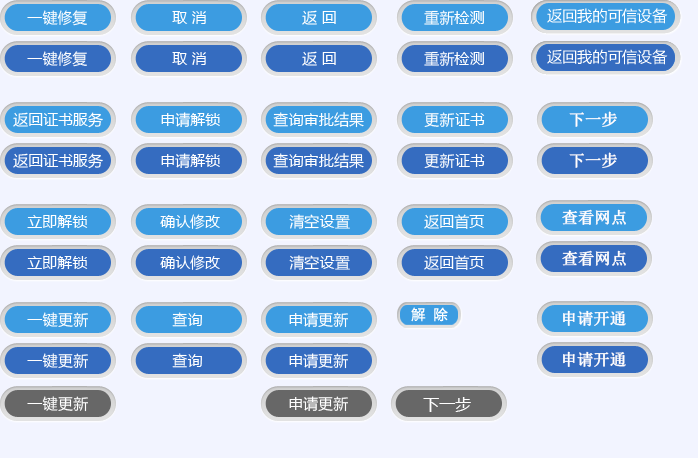
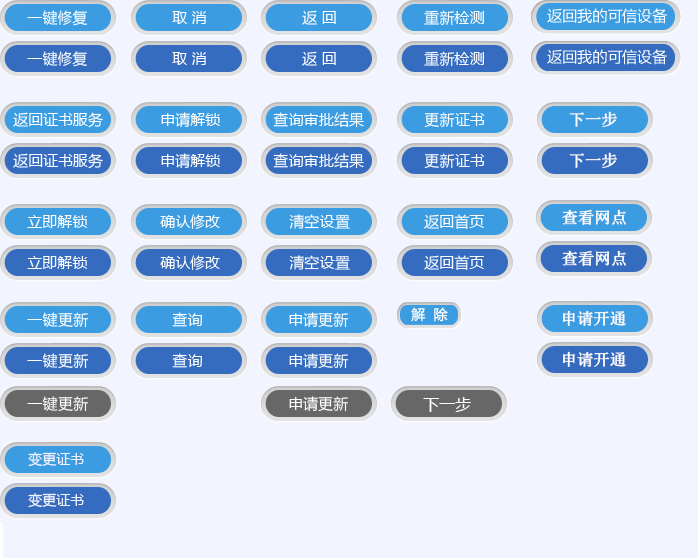
客户端变更证书

diff --git a/src/main/webapp/static/iLetter/css/main.css b/src/main/webapp/static/iLetter/css/main.css
@@ -1137,6 +1137,23 @@ background:url(../images/bgfw_step.png) 0 -185px no-repeat;
 margin:20px 50px 0px 25px;
 overflow:hidden;
 }
+
+.zsfw_bgfw_step4{width:270px;
+height:85px;
+padding:0;
+background:url(../images/gx_step.png) 0 -362px no-repeat;
+margin:20px 50px 0px 25px;
+overflow:hidden;
+}
+
+.zsfw_bgfw_step5{width:270px;
+height:85px;
+padding:0;
+background:url(../images/bgfw_step.png) 0 -455px no-repeat;
+margin:20px 50px 0px 25px;
+overflow:hidden;
+}
+
 .zsfw_gxgx_step1{width:379px;
 height:85px;
 padding:0;
@@ -1587,6 +1604,20 @@ height:37px;
 background:url(../images/btn_icon.png) -397px -143px no-repeat;
 overflow:hidden;
 }
+
+.btn_bgzs a{ display:block;
+width:116px;
+height:37px;
+background:url(../images/btn_icon.png) 0px -441px no-repeat;
+overflow:hidden;
+}
+.btn_bgzs a:hover{ display:block;
+width:116px;
+height:37px;
+background:url(../images/btn_icon.png) 0px -483px no-repeat;
+overflow:hidden;
+}
+
 
 /*进度条*/
 .jc_jindutiao{330px;
